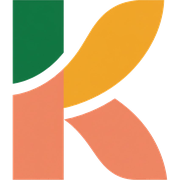
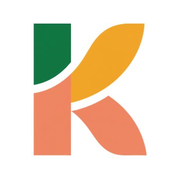
feat(pwa): consolidate PWA assets, add service worker, fix SSRF vulnerabilities
Moves icons from /public/icons/ to /public/, adds maskable icon, replaces
static manifest.json with Next.js dynamic manifest route, and registers a
service worker via PWARegister component. Also validates that receipt image
URLs originate from our Supabase project and blocks RFC-1918/link-local
hosts in downloadExternalImageToStorage to prevent SSRF.

diff --git a/src/app/layout.js b/src/app/layout.js
@@ -2,6 +2,7 @@ import { headers } from 'next/headers'
 import { Inter } from 'next/font/google'
 import StyledComponentsRegistry from '@/lib/registry'
 import ThemeWrapper from '@/styles/ThemeWrapper'
+import PWARegister from '@/components/PWARegister'
 import './globals.css'
 
 const inter = Inter({
@@ -13,16 +14,24 @@ const inter = Inter({
 export const metadata = {
   title: 'Koda',
   description: 'Koda-powered meal planning, family scheduling & event planning',
+  applicationName: 'Koda',
+  appleWebApp: { capable: true, statusBarStyle: 'default', title: 'Koda' },
   icons: {
     icon: [
       { url: '/favicon.ico' },
       { url: '/favicon-16x16.png', sizes: '16x16', type: 'image/png' },
       { url: '/favicon-32x32.png', sizes: '32x32', type: 'image/png' },
+      { url: '/icon-192.png', sizes: '192x192', type: 'image/png' },
     ],
     apple: [{ url: '/apple-touch-icon.png', sizes: '180x180' }],
   },
-  manifest: '/manifest.json',
+}
+
+export const viewport = {
   themeColor: '#1D9E75',
+  width: 'device-width',
+  initialScale: 1,
+  viewportFit: 'cover',
 }
 
 export default async function RootLayout({ children }) {
@@ -38,6 +47,7 @@ export default async function RootLayout({ children }) {
         <StyledComponentsRegistry>
           <ThemeWrapper>{children}</ThemeWrapper>
         </StyledComponentsRegistry>
+        <PWARegister />
       </body>
     </html>
   )

diff --git a/src/lib/storage.js b/src/lib/storage.js
@@ -69,8 +69,29 @@ export async function uploadRecipeImage(buffer, contentType, userId, suffix = ''
  * Download an external image URL and upload it to the recipe-images bucket.
  * Returns { storagePath, signedUrl } or null on any failure.
  */
+// Rejects non-HTTPS and RFC-1918 / link-local hosts to prevent SSRF.
+function isSafeExternalImageUrl(imageUrl) {
+  let parsed
+  try { parsed = new URL(imageUrl) } catch { return false }
+  if (parsed.protocol !== 'https:') return false
+  const h = parsed.hostname
+  if (
+    h === 'localhost' ||
+    h === '127.0.0.1' ||
+    h === '::1' ||
+    /^10\./.test(h) ||
+    /^172\.(1[6-9]|2\d|3[01])\./.test(h) ||
+    /^192\.168\./.test(h) ||
+    /^169\.254\./.test(h) ||
+    /^fc00:/i.test(h) ||
+    /^fe80:/i.test(h)
+  ) return false
+  return true
+}
+
 export async function downloadExternalImageToStorage(imageUrl, userId) {
   if (!imageUrl || !userId || isMockMode()) return null
+  if (!isSafeExternalImageUrl(imageUrl)) return null
   try {
     const res = await fetch(imageUrl, {
       headers: {

diff --git a/src/lib/actions/ai.js b/src/lib/actions/ai.js
@@ -541,10 +541,16 @@ export async function parseReceiptAction(imageSource, mimeType = 'image/jpeg') {
       imageMimeType = match[1]
       imageData = match[2]
     } else {
-      // Remote URL (Supabase signed URL): fetch and convert to base64
+      // Remote URL: must be a Supabase Storage signed URL on our own project.
+      const supabaseUrl = process.env.NEXT_PUBLIC_SUPABASE_URL
+      if (!supabaseUrl || !imageSource.startsWith(supabaseUrl + '/')) {
+        return fail('Invalid image source.')
+      }
       const response = await fetch(imageSource)
       if (!response.ok) return fail('Could not fetch receipt image.')
-      imageMimeType = response.headers.get('content-type') || mimeType
+      const ct = (response.headers.get('content-type') || '').split(';')[0].trim()
+      if (!ct.startsWith('image/')) return fail('Invalid image type.')
+      imageMimeType = ct || mimeType
       const buffer = await response.arrayBuffer()
       imageData = Buffer.from(buffer).toString('base64')
     }

diff --git a/src/app/manifest.js b/src/app/manifest.js
@@ -1,0 +1,17 @@
+export default function manifest() {
+  return {
+    id: '/',
+    name: 'Koda — Meal Planning',
+    short_name: 'Koda',
+    description: 'AI meal planning that figures out dinner for you.',
+    start_url: '/',
+    display: 'standalone',
+    background_color: '#FAFAF8',
+    theme_color: '#1D9E75',
+    icons: [
+      { src: '/icon-192.png', sizes: '192x192', type: 'image/png' },
+      { src: '/icon-512.png', sizes: '512x512', type: 'image/png' },
+      { src: '/icon-512-maskable.png', sizes: '512x512', type: 'image/png', purpose: 'maskable' },
+    ],
+  }
+}

diff --git a/src/components/PWARegister.jsx b/src/components/PWARegister.jsx
@@ -1,0 +1,11 @@
+'use client'
+import { useEffect } from 'react'
+
+export default function PWARegister() {
+  useEffect(() => {
+    if ('serviceWorker' in navigator) {
+      navigator.serviceWorker.register('/sw.js').catch(() => {})
+    }
+  }, [])
+  return null
+}

diff --git a/public/sw.js b/public/sw.js
@@ -1,0 +1,5 @@
+self.addEventListener('install', () => self.skipWaiting())
+self.addEventListener('activate', (e) => e.waitUntil(self.clients.claim()))
+self.addEventListener('fetch', (e) => {
+  e.respondWith(fetch(e.request).catch(() => caches.match(e.request)))
+})
